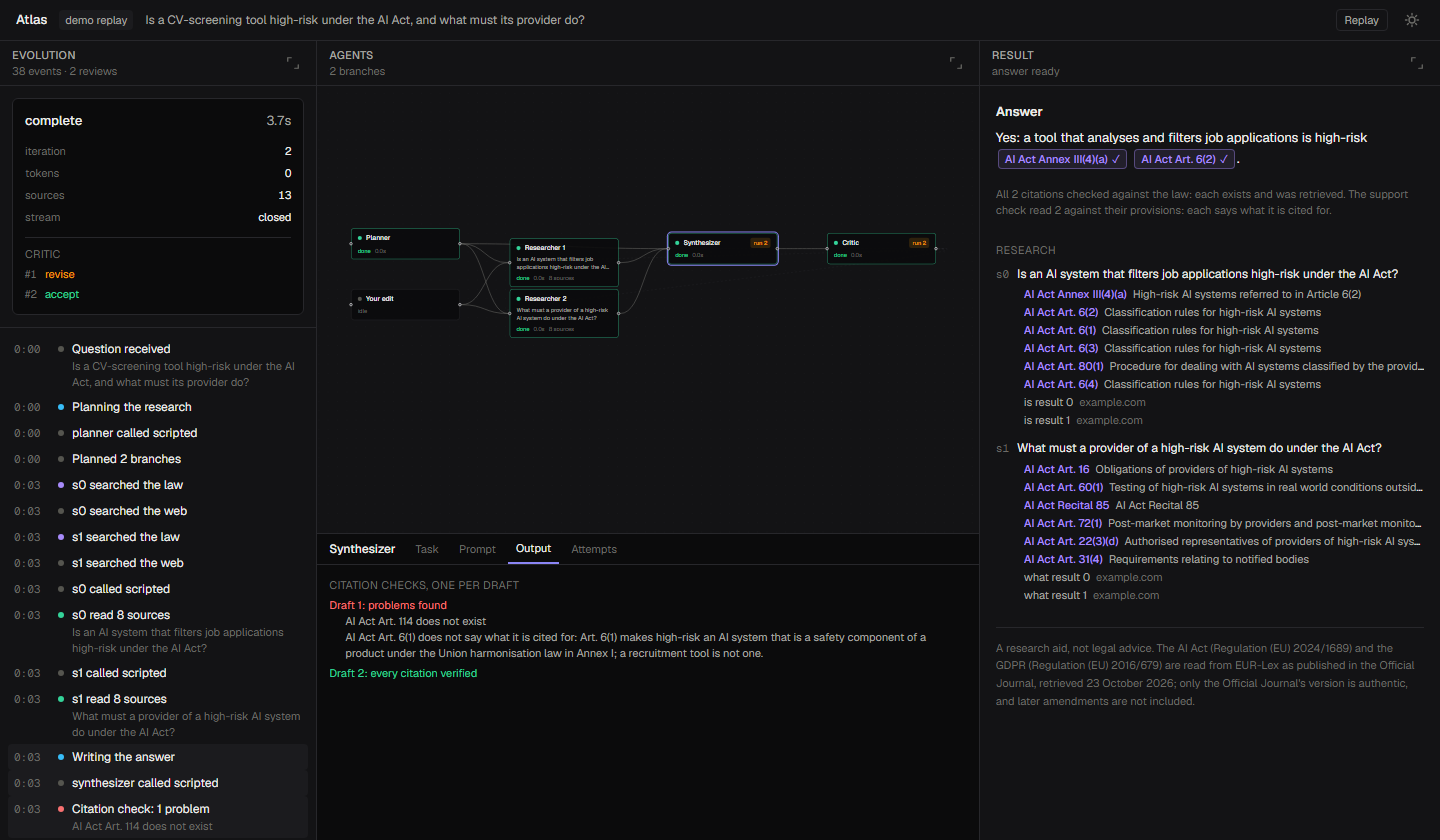
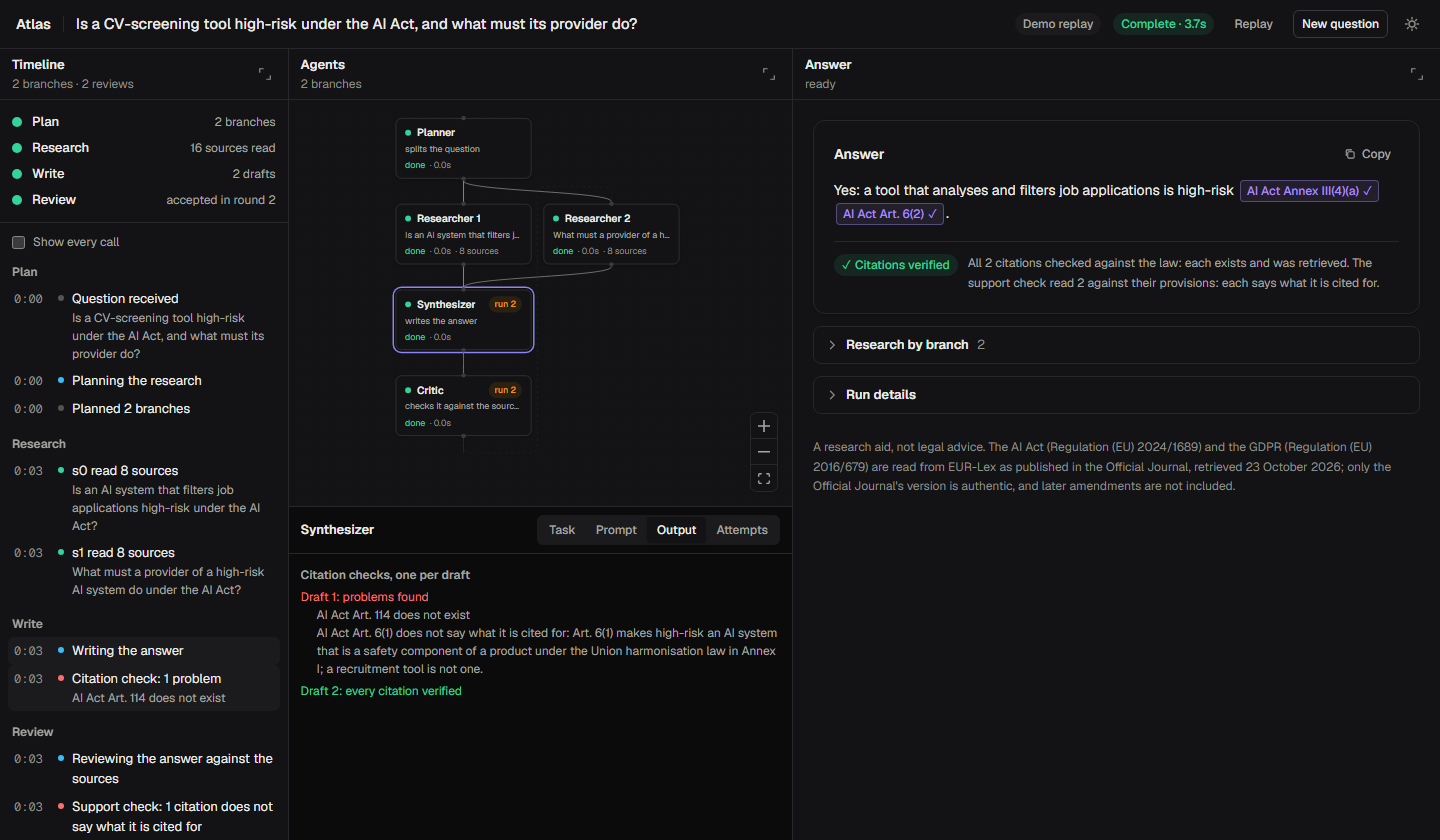
docs: the workspace as it now is, and test counts that match
New screenshots of the redesigned workspace, from the production build, in
both themes, with alt text that says what is open in them (it named a
researcher's prompt; the synthesizer's citation checks are). The panes are
Timeline, Agents and Answer, described as they now behave. The report's
frontend count was 144 and its command comment said 515 backend tests; they
are 196 and 563.

diff --git a/README.md b/README.md
@@ -11,7 +11,7 @@ the research and re-run only that branch.
 
 <picture>
   <source media="(prefers-color-scheme: dark)" srcset="docs/img/workspace-dark.png">
-  <img alt="The Atlas workspace: the run's timeline on the left, the agent graph with one researcher's exact prompt open in the middle, and the answer with its checked citation chips on the right" src="docs/img/workspace-light.png">
+  <img alt="The Atlas workspace: the run's timeline, step by step, on the left; the agent graph in the middle, with the synthesizer open on its citation checks (draft 1 cited an article that does not exist and one that does not say what it was cited for; draft 2 passed); and on the right the answer, its citation chips verified" src="docs/img/workspace-light.png">
 </picture>
 
 *The recorded demo, with the synthesizer's drafts open. The first draft cited an article that does
@@ -181,13 +181,14 @@ graph LR
     end
 ```
 
-**The workspace has three panes.**
+**The workspace has three panes, the answer given the most room.** On a phone they are tabs, and
+the Answer tab opens once there is one.
 
 | Pane | What it shows |
 |---|---|
-| **Evolution** | Every version of the answer on this conversation, and a timeline of the run on screen: the plan, each branch, each critic verdict with its reason, each edit. |
-| **Agents** | The live graph, and under it an inspector for the agent you select. Keys: `j` / `k` step through the agents in the order they ran, `e` edits the selected branch's question, `Esc` closes. |
-| **Result** | The answer with its citation chips, the sources grouped by authority, and a word-level comparison with any other version. |
+| **Timeline** | Every version of the answer on this conversation; where the run is, as four steps (plan, research, write, review); and the run's timeline cut into those steps: each branch, each critic verdict with its reason, each edit. Each search and model call is folded away until asked for. |
+| **Agents** | The live graph, top to bottom, and under it an inspector for the agent you select: its task, the exact prompt it was sent, what it produced, every attempt. Keys: `j` / `k` step through the agents in the order they ran, `e` edits the selected branch's question, `Esc` closes. |
+| **Answer** | The answer with its citation chips and the checks' verdict. Copy puts it on the clipboard as Markdown with its citations linked; Compare swaps it for a word-level diff against another version. Below, folded: the sources by authority, the research by branch (each with Edit & re-run), and the run's details. |
 
 **Editing a branch forks the run; it does not restart it.** A revision writes through a dedicated
 `human_edit` node with LangGraph's `aupdate_state`, from the finished run's checkpoint. Only the

diff --git a/docs/REPORT.md b/docs/REPORT.md
@@ -248,9 +248,9 @@ practise it.
 
 | Pane | Contents |
 |---|---|
-| **Evolution** | The versions of the answer, and the run's timeline. |
+| **Timeline** | The versions of the answer, the run as four steps, and its timeline by step. |
 | **Agents** | The graph, with an inspector under it: task, prompt, output, attempts. |
-| **Result** | The answer with its citation chips, sources by authority, and a word-level diff against any other version. |
+| **Answer** | The answer with its citation chips and verdict, copy as Markdown, a word-level diff against any other version; sources, research by branch and run details folded beneath. |
 
 **Prompts load only when opened.** On a live run they come from the API. The `/demo` replay ships its
 recorded calls instead, so it shows real prompts with no backend.
@@ -311,7 +311,7 @@ wrong thing, while everything looks fine. These were found during this work:
 |---|---|
 | Library retrieval, one search per question | recall@10 0.900 (held-out half 0.875, measured once), recall@5 0.713, all must-cites for 32 of 40 |
 | Engine regression gate, 50 general questions | completion 0.995, grounding 0.955, tool use 0.963; thresholds 5 / 4 / 3 pp from a measured noise floor |
-| Tests | 563 backend, 13 more against Postgres, 144 frontend; no network, no spend |
+| Tests | 563 backend, 13 more against Postgres, 196 frontend; no network, no spend |
 | **Not measured: the domain eval** | Built and tested; needs about $12–15 of model calls (estimated) |
 | **Not measured: Atlas's own retrieval** | One search per branch, rather than per question |
 | **Not measured: the support check's accuracy** | `atlas_eval support` measures it on 24 labelled cases (12 supported, 12 near misses), each "supports" label proved by the provision's own words; needs credit |
@@ -343,7 +343,7 @@ wrong thing, while everything looks fine. These were found during this work:
 From `backend/`:
 
 ```powershell
-uv run pytest -q                                          # 515 tests, offline
+uv run pytest -q                                          # 563 tests, offline
 uv run pytest -q -m postgres                              # with ATLAS_TEST_DATABASE_URL set
 uv run python -m atlas_eval retrieval                     # recall@10, free
 uv run python -m atlas_eval claim --dataset compliance    # what the dataset supports claiming
